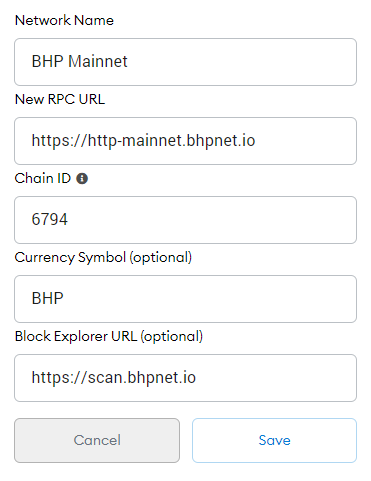
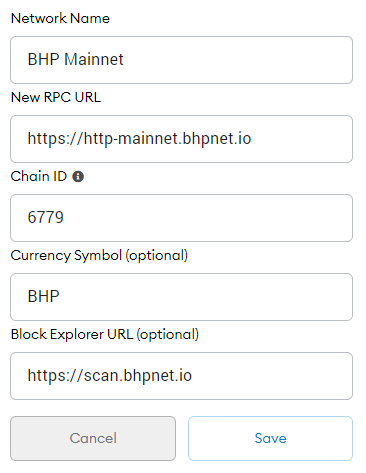
modify chainid

diff --git a/docs/developer/truffle.md b/docs/developer/truffle.md
@@ -86,7 +86,7 @@ module.exports = {
     testnet: {
       provider: () =>
         new HDWalletProvider(mnemonic, `https://http-mainnet.bhpnet.io`),
-      network_id: 6794,
+      network_id: 6779,
       confirmations: 10,
       timeoutBlocks: 200,
       skipDryRun: true,

diff --git a/docs/developer/truffle.zh-CN.md b/docs/developer/truffle.zh-CN.md
@@ -84,7 +84,7 @@ module.exports = {
     testnet: {
       provider: () =>
         new HDWalletProvider(mnemonic, `https://http-mainnet.bhpnet.io`),
-      network_id: 6794,
+      network_id: 6779,
       confirmations: 10,
       timeoutBlocks: 200,
       skipDryRun: true,

diff --git a/docs/guide/genesis.md b/docs/guide/genesis.md
@@ -27,7 +27,7 @@ System contract repo: [bhp-system-contracts](https://github.com/bhpnet/bhp-syste
 ```json
 {
   "config": {
-    "chainId": 6794,
+    "chainId": 6779,
     "homesteadBlock": 0,
     "daoForkSupport": true,
     "eip150Block": 0,

diff --git a/docs/guide/metamask.zh-CN.md b/docs/guide/metamask.zh-CN.md
@@ -13,7 +13,7 @@ title: MetaMask 使用指南
 ![img](/images/remix-4-2.png)
 
 ```shell
-chainid: 6794
+chainid: 6779
 rpc: https://http-mainnet.bhpnet.io
 scan: https://scan.bhpnet.io
 ```

diff --git a/docs/guide/metamask.md b/docs/guide/metamask.md
@@ -13,7 +13,7 @@ mainnet
 ![img](/images/remix-4-2.png)
 
 ```shell
-chainid: 6794
+chainid: 6779
 rpc: https://http-mainnet.bhpnet.io
 scan: https://scan.bhpnet.io
 ```

diff --git a/docs/guide/genesis.zh-CN.md b/docs/guide/genesis.zh-CN.md
@@ -27,7 +27,7 @@
 ```json
 {
   "config": {
-    "chainId": 6794,
+    "chainId": 6779,
     "homesteadBlock": 0,
     "daoForkSupport": true,
     "eip150Block": 0,
